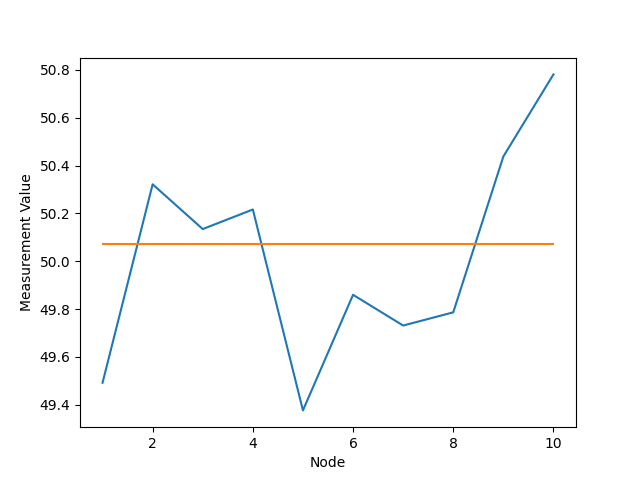
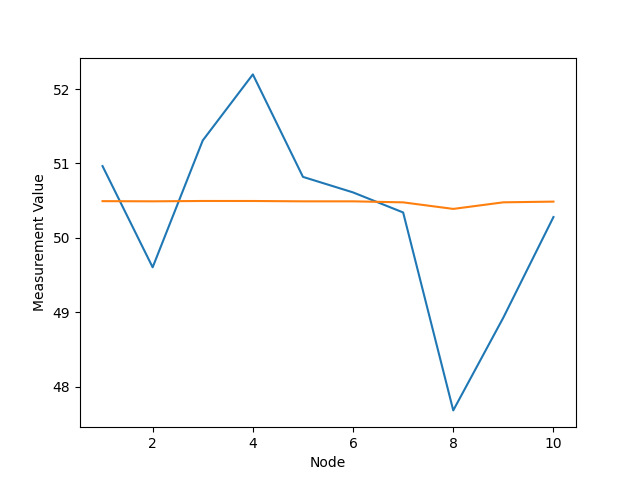
max-weight / metropolis weight designs working

diff --git a/consensus_filter_1.py b/consensus_filter_1.py
@@ -2,7 +2,7 @@ import copy
 import matplotlib.pyplot as plt
 import numpy as np
 
-ITERATIONS = 25
+ITERATIONS = 1000
 NUM_NODES = 10
 DIMENSION = 2
 MAX_DISTANCE = 4
@@ -75,7 +75,7 @@ network, avgPos = getNetwork()
 x_i = F1 * np.ones((NUM_NODES, 1)) + 1 * np.random.randn(NUM_NODES, 1)
 x_i_initial = copy.copy(x_i)
 x_i_old = copy.copy(x_i)
-convergence = {i: F1 * np.ones((ITERATIONS, 1)) for i in range(NUM_NODES)}
+convergence = {i: np.average(x_i) * np.ones((ITERATIONS, 1)) for i in range(NUM_NODES)}
 weights = {str(i): {str(j): 0 for j in network} for i in network}
 
 def c_1w(len_nei):
@@ -89,19 +89,24 @@ for i in range(1, ITERATIONS):
         sigma_weight = 0
         for nei in network[name]['nei']:
             # WEIGHT DESIGN 1
-            # weights[name][nei] = c_1w(len(network[name]['nei'])) / (v_i(network[name]['pos']) + v_i(network[nei]['pos']))
+            weights[name][nei] = c_1w(len(network[name]['nei'])) / (v_i(network[name]['pos']) + v_i(network[nei]['pos']))
             # WEIGHT DESIGN 2
             # weights[name][nei] = (1 - weights[name][name]) / len(network[name]['nei'])
             # MAX-DEGREE WEIGHTS
-            
+            # weights[name][nei] = 1 / NUM_NODES
+            # METROPOLIS WEIGHTS
+            # weights[name][nei] = 1 / (1 + max(len(network[name]['nei']),  len(network[nei]['nei'])))
+
             sigma_weight += weights[name][nei]
 
         # WEIGHT DESIGN 1
-        # weights[name][name] = 1 - sigma_weight
+        weights[name][name] = 1 - sigma_weight
         # WEIGHT DESIGN 2
         # weights[name][name] = c_2w / v_i(network[name]['pos'])
         # MAX-DEGREE WEIGHTS
-
+        # weights[name][name] = 1 - (len(network[name]['nei']) / NUM_NODES)
+        # METROPOLIS WEIGHTS
+        # weights[name][name] = 1 - sigma_weight
 
         addition = 0
         for nei in network[name]['nei']:
